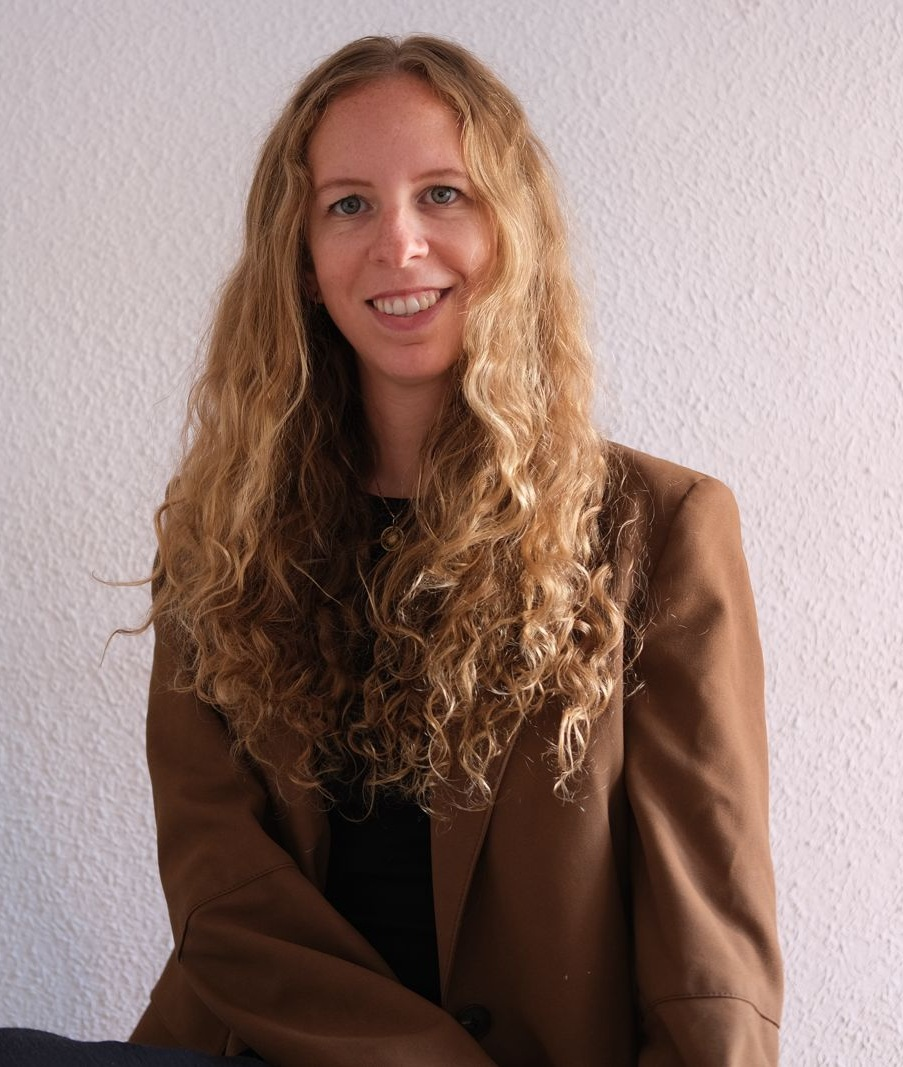
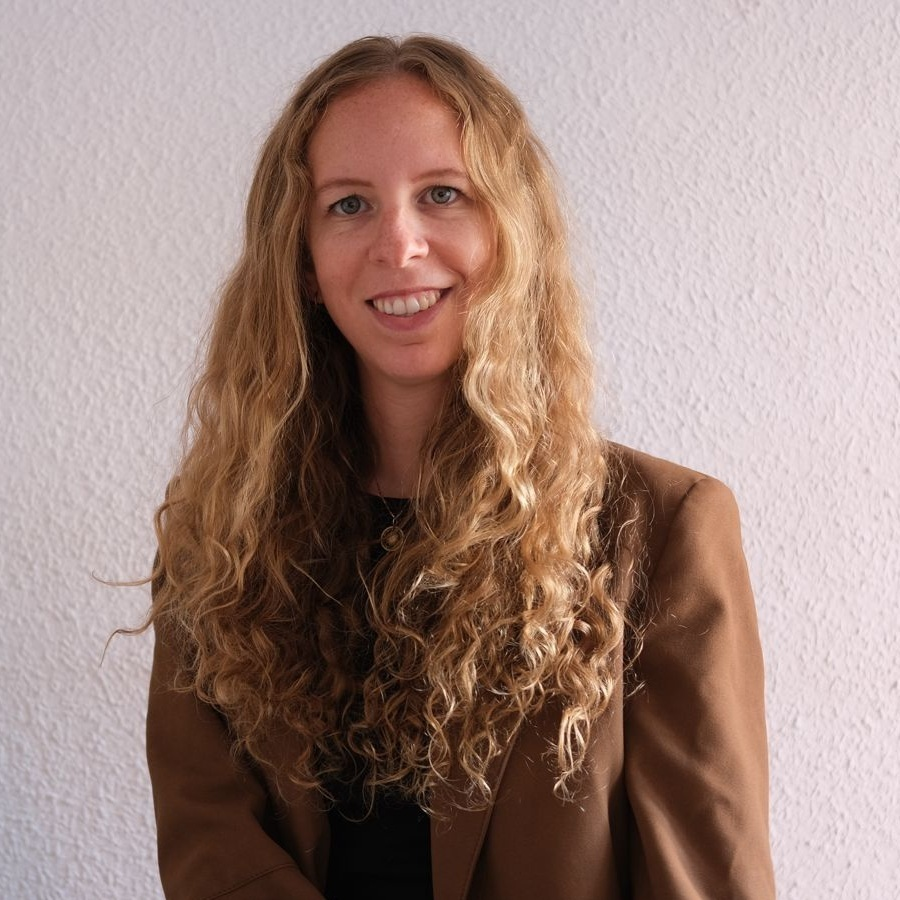
fixed image css style for all screen sizes

diff --git a/martina_papier_psicologa/src/pages/HomePage.jsx b/martina_papier_psicologa/src/pages/HomePage.jsx
@@ -6,20 +6,16 @@ export default function HomePage() {
     <>
       <Layout>
         <div className="container">
-          <div className="row mt-5 mb-5">
-            <div className="col-12 col-lg-5 mb-4 mb-lg-0 d-flex justify-content-center">
-              <div className="mt-4"></div>
-              <div className="card foto">
-                <img src={Martu_pic} alt="Martina Papier pic" className="img-fluid profile-img"/>
-              </div>
+          <div className="row mt-5 mb-5 d-flex justify-content-center">
+            <div className="col-12 col-lg-5 mb-lg-0 foto-card">
+                <img src={Martu_pic} alt="Martina Papier pic" className="img profile-img"/>
             </div>
-              <div className="col-12 col-lg-7 text-container">
+              <div className="col-12 col-lg-5 text-container">
                 <h1>Martina Papier </h1>
                 <h3>
                   Psicóloga especializada en{" "}
                   <b>Trastornos de la Conducta Alimentaria</b>
                 </h3>
-                <p>
                   <p>
                     Lorem ipsum dolor sit amet, consectetur adipiscing elit.
                     Nullam quam lacus, lacinia eget sem vel, condimentum
@@ -28,10 +24,8 @@ export default function HomePage() {
                     Phasellus id elit lectus. Pellentesque ut urna purus.
                     Suspendisse aliquam est nec velit congue hendrerit. Proin
                     vehicula semper nunc sed bibendum. Donec laoreet rutrum
-                    libero. Proin egestas vehicula semper. Nunc convallis ipsum
-                    vitae tincidunt pulvinar.{" "}
+                    libero. Proin egestas vehicula semper.{" "}
                   </p>
-                </p>
               </div>
           </div>
         </div>

diff --git a/martina_papier_psicologa/src/App.css b/martina_papier_psicologa/src/App.css
@@ -110,58 +110,79 @@ footer {
     margin: 0;
 }
 
-.foto {
-    display: flex;
-    justify-content: center;
-    align-items: center;
-    overflow: hidden;
-    border-radius: 10px;
-    max-width: 100%;
+.card {
+  --bs-card-border-radius: none
+}
+
+.foto-card {
+  max-width: 100%;
 }
 
 .profile-img {
-    width: 100%;
-    height: auto;
-    object-fit: cover;
+  width: 100%;
+  max-height: 100%;
+  object-fit: contain;
 }
 
-.profile-img:hover {
+.foto:hover {
   transform: scale(1.02);
   transition: transform 0.5s ease;
 }
 
-@media (min-width: 992px) {
-  .profile-img {
-    max-width: 450px;
-  }
-}
-
-@media (min-width: 1200px) {
-  .profile-img {
-    max-width: 550px;
-  }
-}
-
-@media (max-width: 991px) and (min-width: 768px) {
-  .profile-img {
-    max-height: 550px;
-  }
-}
-
 @media (max-width: 767px) {
-  .profile-img {
-    max-height: 400px;
-  }
-}
-
-@media (max-width: 767px) {
-  .text-container {
-    text-align: center;
-    padding: 0 50px;
-  }
-
+  
   .text-container h1,
   .text-container h3 {
     margin-top: 1rem;
   }
+}
+
+@media (max-width:991px) {
+  .foto-card {
+    width: 60%;
+  }
+
+  .profile-img {
+    width: 100%;
+  }
+
+  .text-container {
+    padding-left: 10rem;
+    padding-right: 10rem;
+  }
+}
+
+@media (max-width:1200px){
+  h1 {
+    font-size: 3rem;
+  }
+
+  h3{
+    font-size: 1.5rem;
+  }
+}
+
+@media (max-width:767px){
+  .text-container {
+    padding-left: 8rem;
+    padding-right: 8rem;
+  }
+  h3{
+    margin: 0 !important;
+  }
+}
+
+@media (max-width:575px){
+  .text-container {
+      padding-left: 7rem;
+      padding-right: 7rem;
+      text-align: center;
+    }
+}
+
+@media (max-width:375px){
+  .text-container {
+      padding-left: 6rem;
+      padding-right: 6rem;
+    }
 }

diff --git a/martina_papier_psicologa/src/index.css b/martina_papier_psicologa/src/index.css
@@ -22,10 +22,10 @@ body {
 }
 
 h1 {
-  font-size: 5rem;
+  font-size: 4rem;
 }
 h3 {
-  font-size: 2.3rem;
+  font-size: 2.2rem;
 }
 
 p, a {
